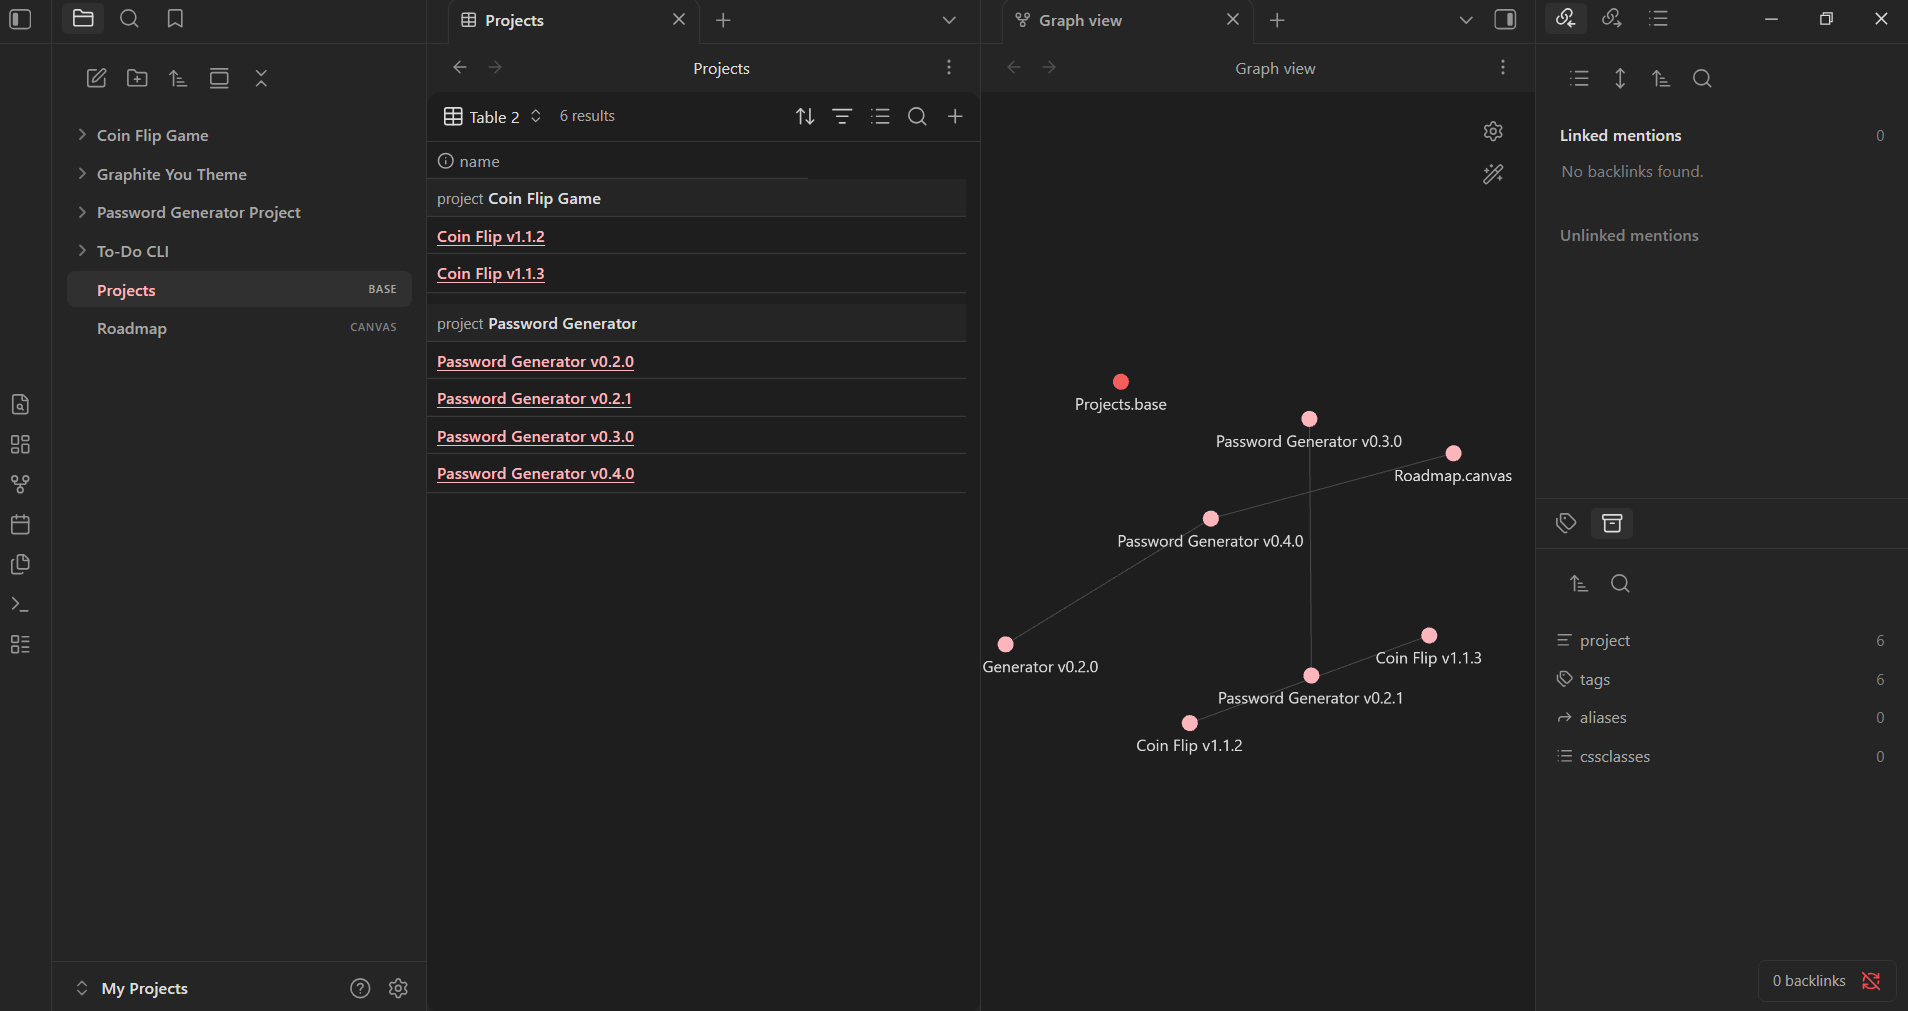
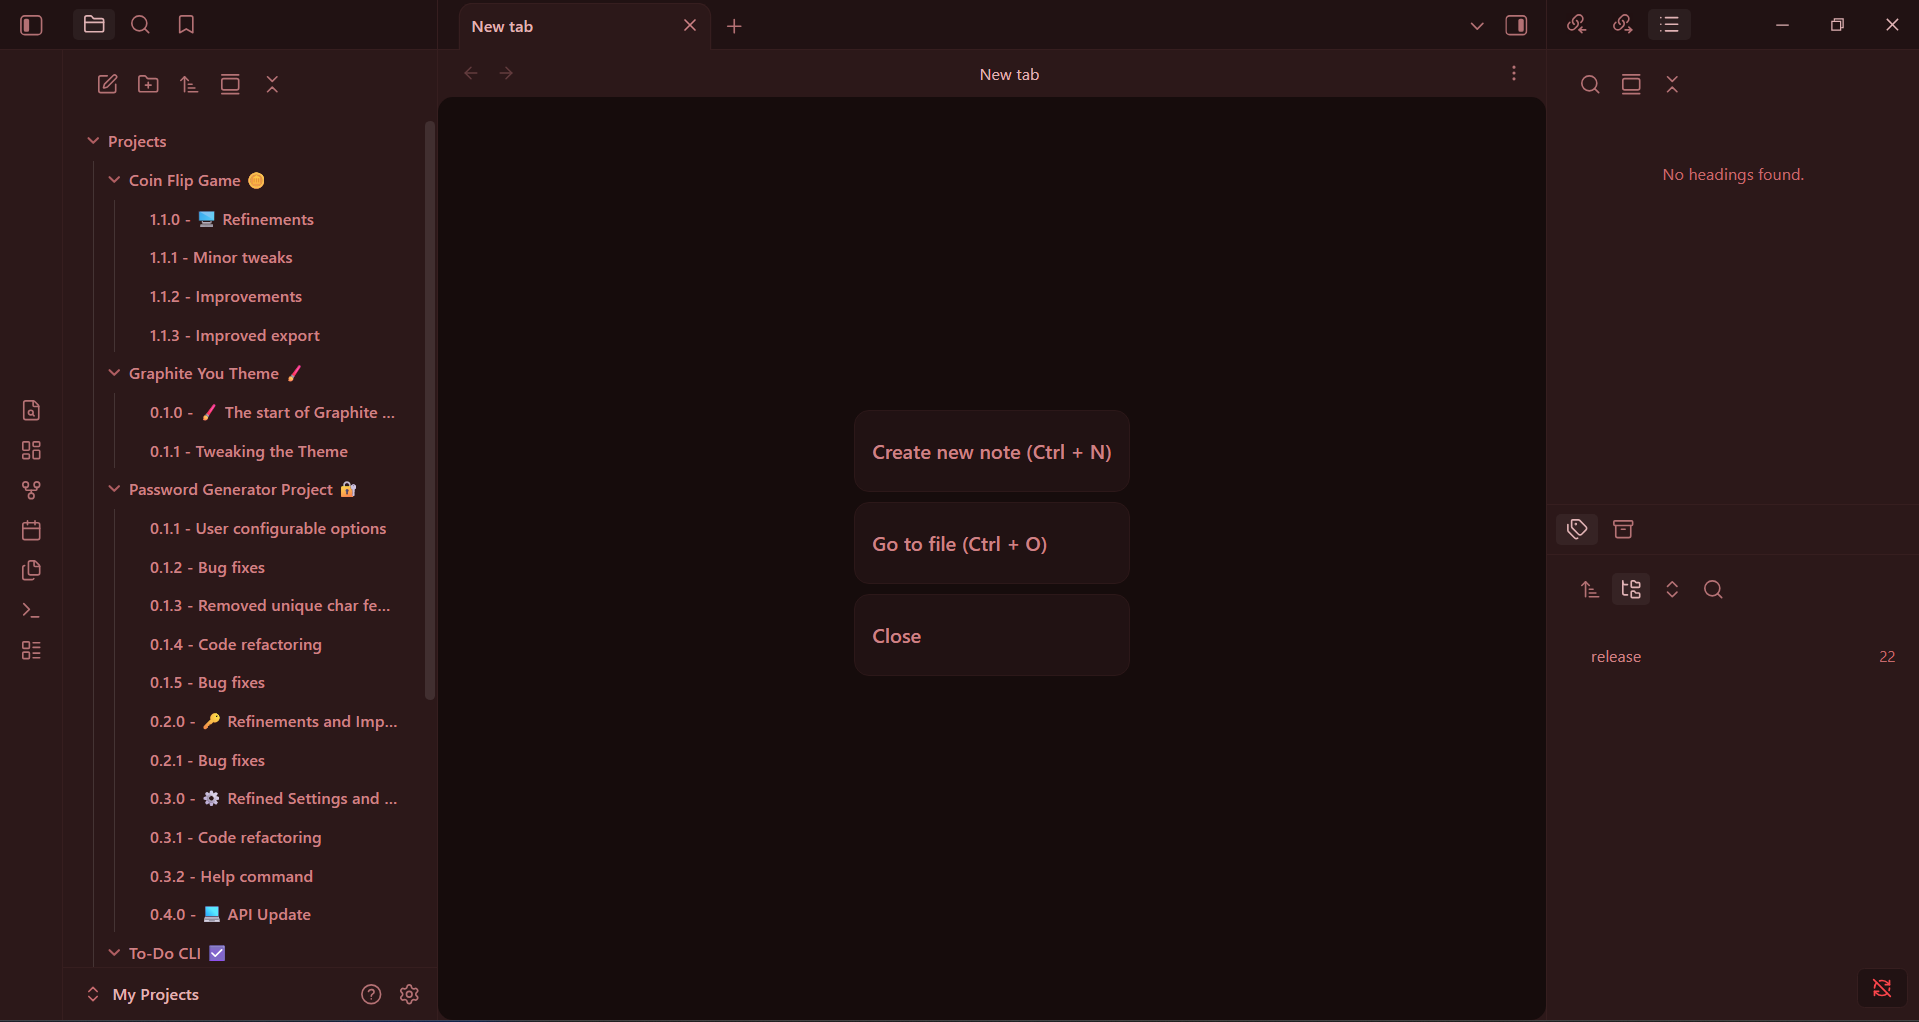
V0.1.0

diff --git a/theme.css b/theme.css
@@ -49,28 +49,31 @@ body {
   --tag-radius: 4px;
   /* settings */
   --setting-items-background: var(--color-base-10);
+  /* navigation */
+  --nav-item-padding: 6px var(--size-4-2) 6px var(--size-4-6);
+  --nav-item-radius: 6px;
 }
 
 /* theme and inline title */
+
 .theme-dark {
-  --color-base-00: #1a1a1a;
-  --color-base-05: #1f1f1f;
-  --color-base-10: #252525;
-  --color-base-20: #2d2d2d;
-  --color-base-25: #343434;
-  --color-base-30: #3d3d3d;
-  --color-base-35: #494949;
-  --color-base-40: #575757;
-  --color-base-50: #757575;
-  --color-base-60: #9a9a9a;
-  --color-base-70: #bebebe;
-  --color-base-100: #f2f2f2;
+  --color-base-00: hsl(calc(var(--accent-h) - 3), calc(var(--accent-s) / 3), calc(var(--accent-l) * 0.08));
+  --color-base-05: hsl(calc(var(--accent-h) - 3), calc(var(--accent-s) / 3), calc(var(--accent-l) * 0.1));
+  --color-base-10: hsl(calc(var(--accent-h) - 3), calc(var(--accent-s) / 3), calc(var(--accent-l) * 0.15));
+  --color-base-20: hsl(calc(var(--accent-h) - 3), calc(var(--accent-s) / 3), calc(var(--accent-l) * 0.2));
+  --color-base-25: hsl(calc(var(--accent-h) - 3), calc(var(--accent-s) / 3), calc(var(--accent-l) * 0.25));
+  --color-base-30: hsl(calc(var(--accent-h) - 3), calc(var(--accent-s) / 3), calc(var(--accent-l) * 0.3));
+  --color-base-40: hsl(calc(var(--accent-h) - 3), calc(var(--accent-s) / 3), calc(var(--accent-l) * 0.4));
+  --color-base-50: hsl(calc(var(--accent-h) - 3), calc(var(--accent-s) / 3), calc(var(--accent-l) * 0.5));
+  --color-base-60: hsl(calc(var(--accent-h) - 3), calc(var(--accent-s) / 3), calc(var(--accent-l) * 0.6));
+  --color-base-70: hsl(calc(var(--accent-h) - 3), calc(var(--accent-s) / 3), calc(var(--accent-l) * 0.7));
+  --color-base-100: hsl(calc(var(--accent-h) - 3), calc(var(--accent-s) / 3), calc(var(--accent-l) * 1));
 
-  --background-primary: #1e1e1e;
-  --background-primary-alt: #1f1f1f;
+  --background-primary: hsl(calc(var(--accent-h) - 3), calc(var(--accent-s) / 3), calc(var(--accent-l) * 0.1));
+  --background-primary-alt: hsl(calc(var(--accent-h) - 3), calc(var(--accent-s) / 3), calc(var(--accent-l) * 0.14));
 
-  --background-secondary: #252525;
-  --background-secondary-alt: #2d2d2d;
+  --background-secondary: hsl(calc(var(--accent-h) - 3), calc(var(--accent-s) / 3), calc(var(--accent-l) * 0.2));
+  --background-secondary-alt: hsl(calc(var(--accent-h) - 3), calc(var(--accent-s) / 3), calc(var(--accent-l) * 0.24));
 
   --background-modifier-hover: rgba(255, 255, 255, 0.05);
   --background-modifier-active-hover: rgba(255, 255, 255, 0.08);
@@ -81,16 +84,9 @@ body {
   --background-modifier-form-field: #212121;
   --background-modifier-box-shadow: rgba(0, 0, 0, 0.28);
 
-  --text-normal: #dddddd;
-  --text-muted: #a8a8a8;
-  --text-faint: #808080;
-
-  --text-accent: #c8c8c8;
-  --text-accent-hover: #ebebeb;
-
-  --text-on-accent: #1a1a1a;
-  --nav-item-padding: 6px var(--size-4-2) 6px var(--size-4-6);
-  --nav-item-radius: 6px;
+  --text-normal: hsl(calc(var(--accent-h) - 3), calc(var(--accent-s) / 2), calc(var(--accent-l) * 1.2));
+  --text-muted: hsl(calc(var(--accent-h) - 3), calc(var(--accent-s) / 2), var(--accent-l));
+  --text-faint: hsl(calc(var(--accent-h) - 3), calc(var(--accent-s) / 2), calc(var(--accent-l) * 0.9));
 
   --link-color: var(--color-accent-2);
 }

diff --git a/README.md b/README.md
@@ -1,16 +1,17 @@
-## Graphite You
-An Obsidian theme that works with your chosen accent colour on top of a monochrome base.
+## Neon You
+An Obsidian theme with a dynamic colour base and elements based on your accent colour.
 
 [Download and Install](https://lukes-05.github.io/docs/graphite-you/pages/Download-Install.html)
 
 ### A theme that adapts to you.
 <img src="images/Img1.png" width=600>
-Graphite You is a theme inspired by Material You's dynamic colour engine. Your Obsidian accent colour is applied to UI elements on top of a neutral monochrome base.
+
+Neon You is a theme inspired by Material You's dynamic colour engine. Your Obsidian accent colour is applied to UI elements on top of a dynamically coloured base.
 
 ### And I didn't forget about Bases and Canvas.
 <img src="images/Img2.png" width=600>
 
-Your Obsidian bases views get the same treatment - a modern and neutral UI with a splash of colour.
+Your Obsidian bases views get the same treatment - a modern and vibrant UI with plenty of neon colours.
 
 I will be giving Canvas a refresh in a future release.
 
@@ -22,3 +23,5 @@ I will be giving Canvas a refresh in a future release.
 - 📘 A spacious UI to reduce cognitive load.
 - 👁️ Clearly defined UI elements to make visibility easier.
 - 💻 Open source.
+
+**This theme only supports Obsidian dark theme**